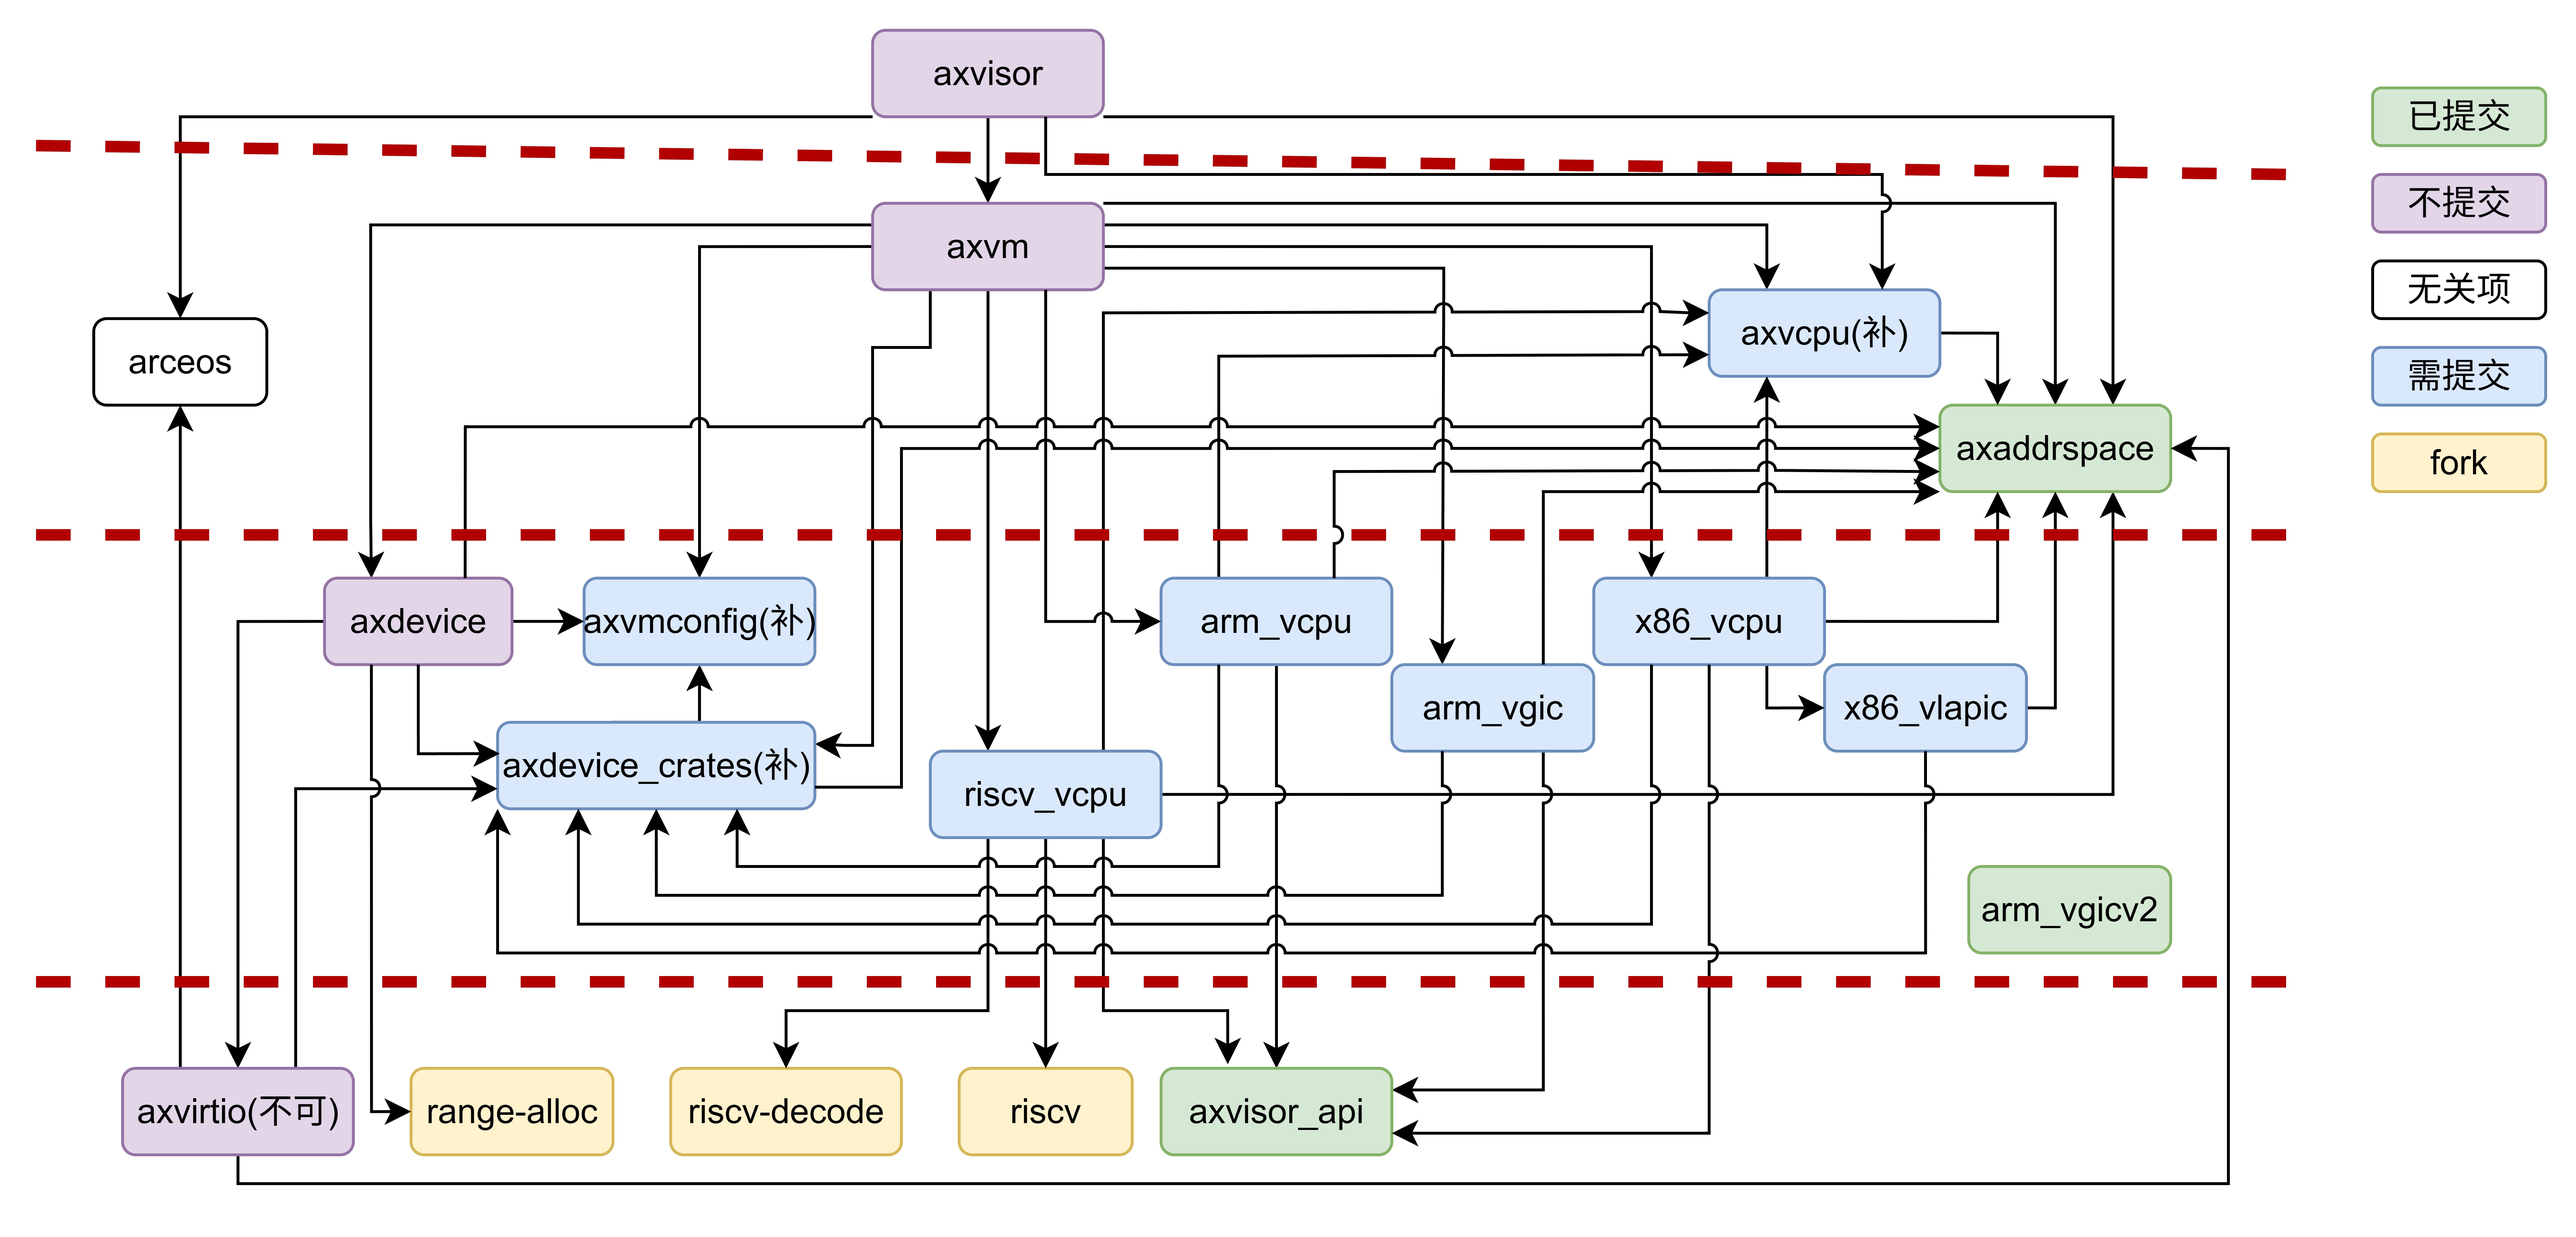
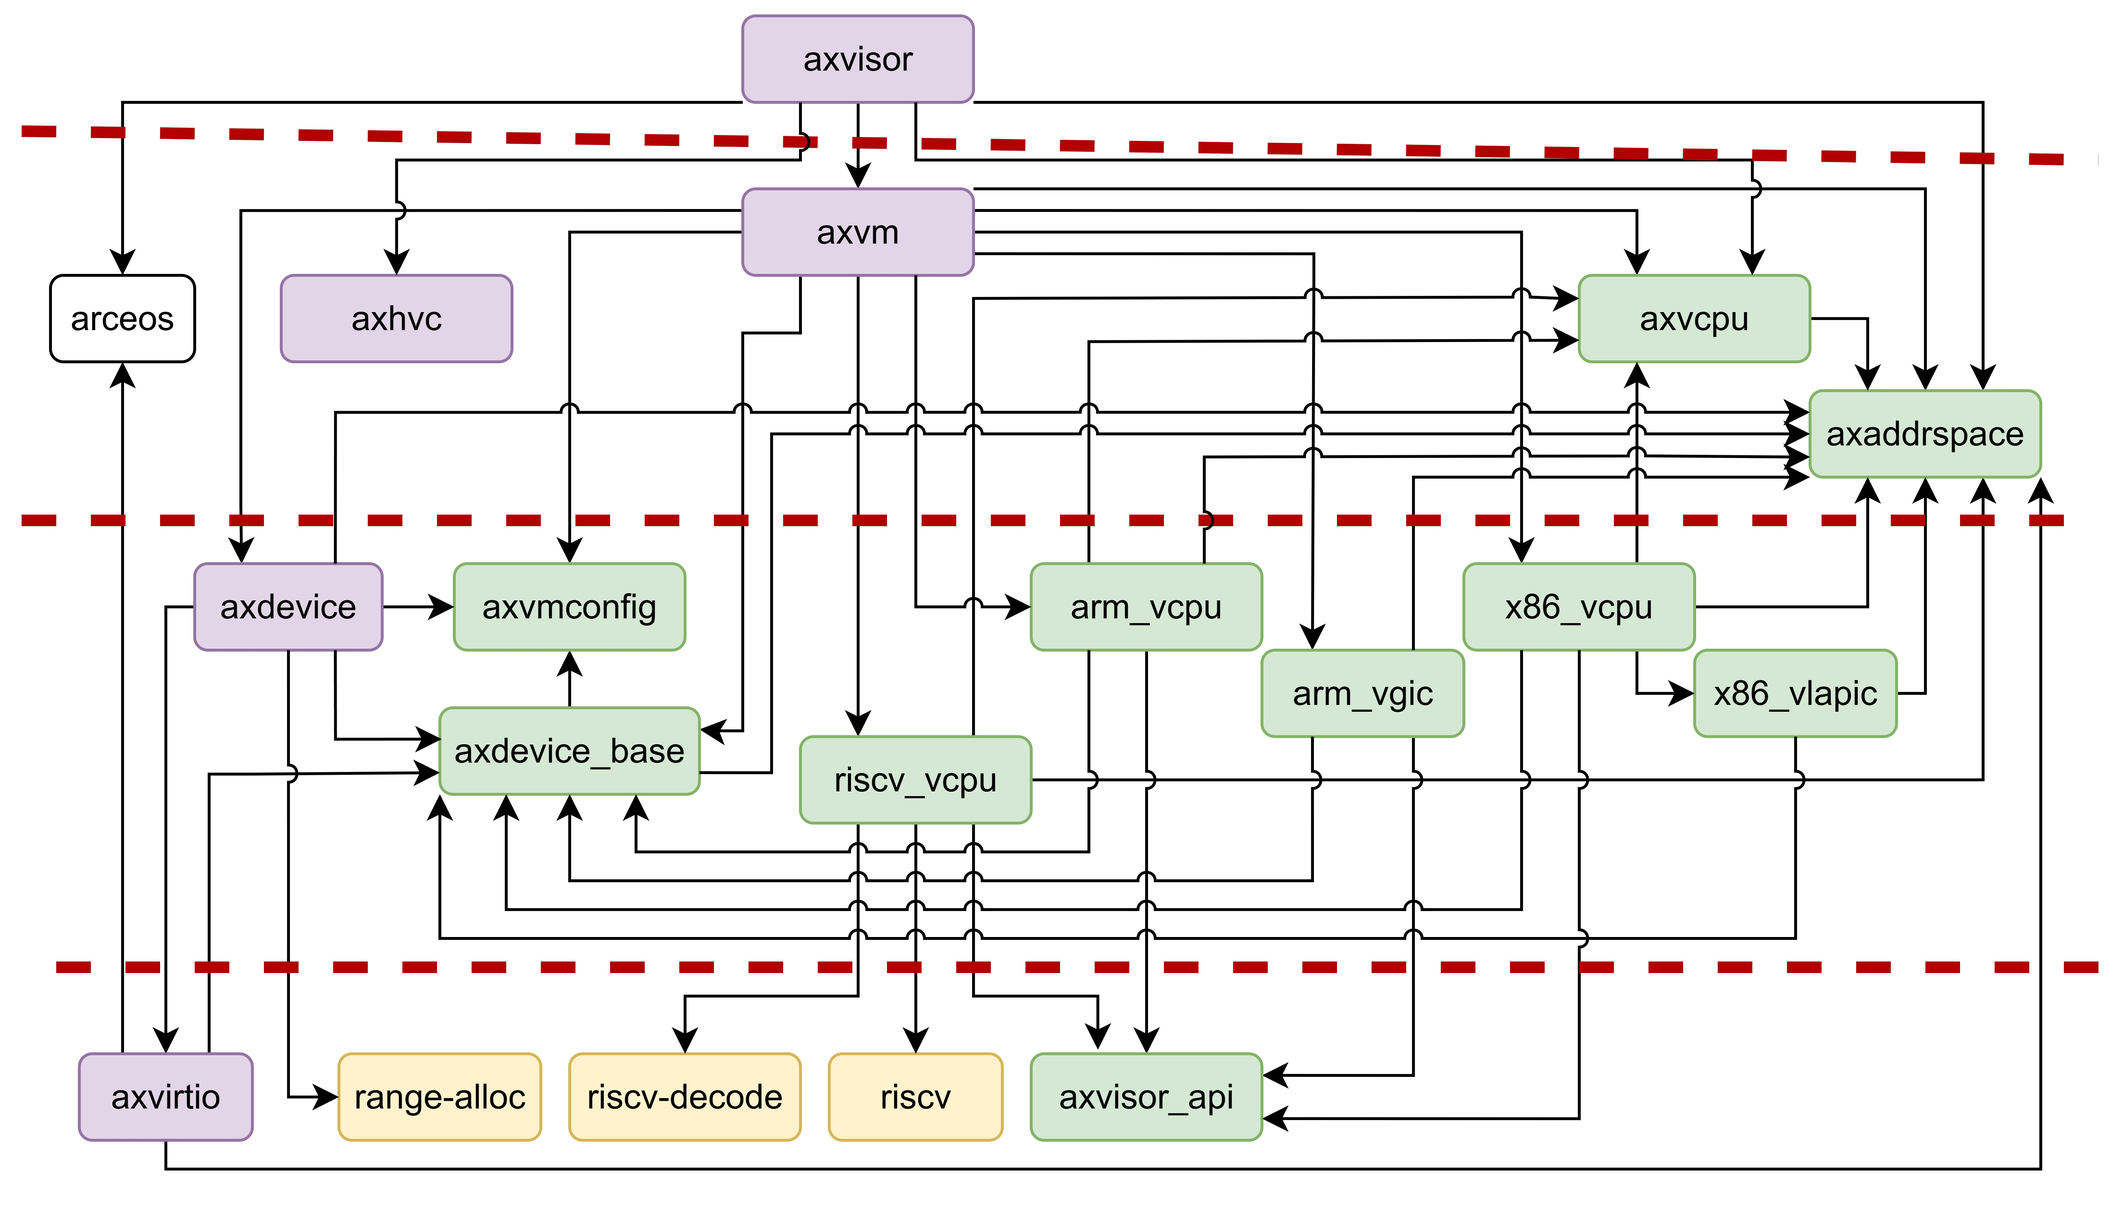
feat: update crate info

diff --git a/README.md b/README.md
@@ -6,21 +6,19 @@ Reusable crates list for [AxVisor](https://github.com/arceos-hypervisor/axvisor)
 
 | Crate                                                           |                                      [crates.io](crates.io)                                       |                                 Documentation                                  | Description                                              |
 | --------------------------------------------------------------- | :-----------------------------------------------------------------------------------------------: | :----------------------------------------------------------------------------: | -------------------------------------------------------- |
-| [arm_vcpu](https://github.com/arceos-hypervisor/arm_vcpu)       |                                                N/A                                                |                                      N/A                                       | .                                                        |
-| [arm_vgic](https://github.com/arceos-hypervisor/arm_vgic)       |                                                N/A                                                |                                      N/A                                       | .                                                        |
-| [arm_gicv2](https://github.com/arceos-hypervisor/arm_gicv2)     |                                                N/A                                                |                                      N/A                                       | .                                                        |
-| [x86_vcpu](https://github.com/arceos-hypervisor/x86_vcpu)       |                                                N/A                                                |                                      N/A                                       | .                                                        |
-| [x86_vlapic](https://github.com/arceos-hypervisor/x86_vlapic)   |                                                N/A                                                |                                      N/A                                       | x86 Virtual Local APIC.                                  |
-| [riscv_vcpu](https://github.com/arceos-hypervisor/riscv_vcpu)   |                                                N/A                                                |                                      N/A                                       | .                                                        |
+| [arm_vcpu](https://github.com/arceos-hypervisor/arm_vcpu) | [![Crates.io](https://img.shields.io/crates/v/arm_vcpu)](https://crates.io/crates/arm_vcpu) | [![Docs.rs](https://docs.rs/arm_vcpu/badge.svg)](https://docs.rs/arm_vcpu) | Aarch64 VCPU implementation for Arceos Hypervisor. |
+| [arm_vgic](https://github.com/arceos-hypervisor/arm_vgic) | [![Crates.io](https://img.shields.io/crates/v/arm_vgic)](https://crates.io/crates/arm_vgic) | [![Docs.rs](https://docs.rs/arm_vgic/badge.svg)](https://docs.rs/arm_vgic) | ARM Virtual Generic Interrupt Controller (VGIC) implementation. |
+| [x86_vcpu](https://github.com/arceos-hypervisor/x86_vcpu) | [![Crates.io](https://img.shields.io/crates/v/x86_vcpu)](https://crates.io/crates/x86_vcpu) | [![Docs.rs](https://docs.rs/x86_vcpu/badge.svg)](https://docs.rs/x86_vcpu) | x86 Virtual CPU implementation for the Arceos Hypervisor. |
+| [x86_vlapic](https://github.com/arceos-hypervisor/x86_vlapic) | [![Crates.io](https://img.shields.io/crates/v/x86_vlapic)](https://crates.io/crates/x86_vlapic) | [![Docs.rs](https://docs.rs/x86_vlapic/badge.svg)](https://docs.rs/x86_vlapic) | x86 Virtual Local APIC. |
+| [riscv_vcpu](https://github.com/arceos-hypervisor/riscv_vcpu) | N/A | [![Docs.rs](https://img.shields.io/badge/docs-pages-green)](https://arceos-hypervisor.github.io/riscv_vcpu) | ArceOS-Hypervisor riscv vcpu module. |
 | [axvisor_api](https://github.com/arceos-hypervisor/axvisor_api) | [![Crates.io](https://img.shields.io/crates/v/axvisor_api)](https://crates.io/crates/axvisor_api) | [![Docs.rs](https://docs.rs/arm_gicv2/badge.svg)](https://docs.rs/axvisor_api) | Experimental Next-Generation Axvisor API                 |
 | [axaddrspace](https://github.com/arceos-hypervisor/axaddrspace) | [![Crates.io](https://img.shields.io/crates/v/axaddrspace)](https://crates.io/crates/axaddrspace) | [![Docs.rs](https://docs.rs/arm_gicv2/badge.svg)](https://docs.rs/axaddrspace) | ArceOS-Hypervisor guest address space management module. |
-| [axdevice_crates](https://github.com/arceos-hypervisor/axdevice_crates)       |                                                N/A                                                |                                      N/A                                       | Crates for building emulated device subsystems for ArceOS-hypervisor in the `no_std` environment.           |
-| [axvmconfig](https://github.com/arceos-hypervisor/axvmconfig)       |                                                N/A                                                |                                      N/A                                       | a Virtual Machine configuration tool and library for AxVisor.           |
-| [axvcpu](https://github.com/arceos-hypervisor/axvcpu)       |                                                N/A                                                |                                      N/A                                       | a virtual CPU abstraction library for ArceOS hypervisors.           |
+| [axdevice_base](https://github.com/arceos-hypervisor/axdevice_base) | [![Crates.io](https://img.shields.io/crates/v/axdevice_base)](https://crates.io/crates/axdevice_base) | [![Docs.rs](https://docs.rs/axdevice_base/badge.svg)](https://docs.rs/axdevice_base) | Crates for building emulated device subsystems for ArceOS-hypervisor in the `no_std` environment.           |
+| [axvmconfig](https://github.com/arceos-hypervisor/axvmconfig) | [![Crates.io](https://img.shields.io/crates/v/axvmconfig)](https://crates.io/crates/axvmconfig) | [![Docs.rs](https://docs.rs/axvmconfig/badge.svg)](https://docs.rs/axvmconfig) | A simple VM configuration tool for ArceOS-Hypervisor. |
+| [axvcpu](https://github.com/arceos-hypervisor/axvcpu) | [![Crates.io](https://img.shields.io/crates/v/axvcpu)](https://crates.io/crates/axvcpu) | [![Docs.rs](https://docs.rs/axvcpu/badge.svg)](https://docs.rs/axvcpu) | Virtual CPU abstraction for ArceOS hypervisor. |
 | ~~[axvirtio](https://github.com/arceos-hypervisor/axvirtio)~~   |                                                N/A                                                |                                      N/A                                       | ~~VirtIO device framework for ArceOS-Hypervisor.~~       |
 
 >  **Note: axvirtio is currently not mature enough and will be published once ready.**
-
 
 ## Crate Dependency
 
